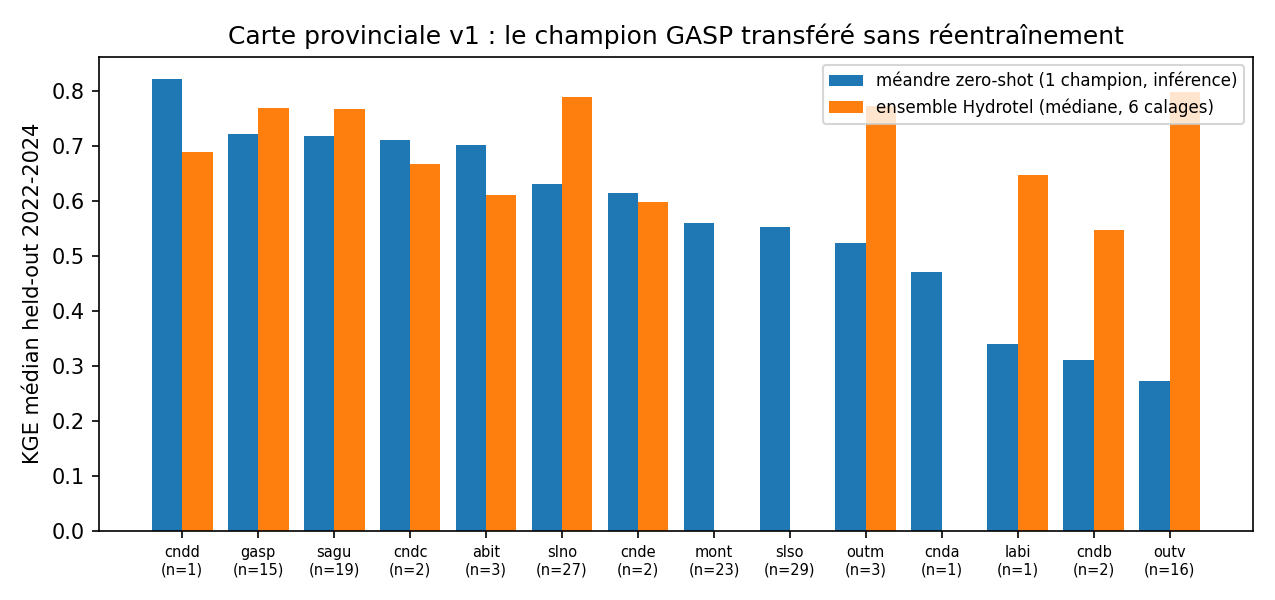
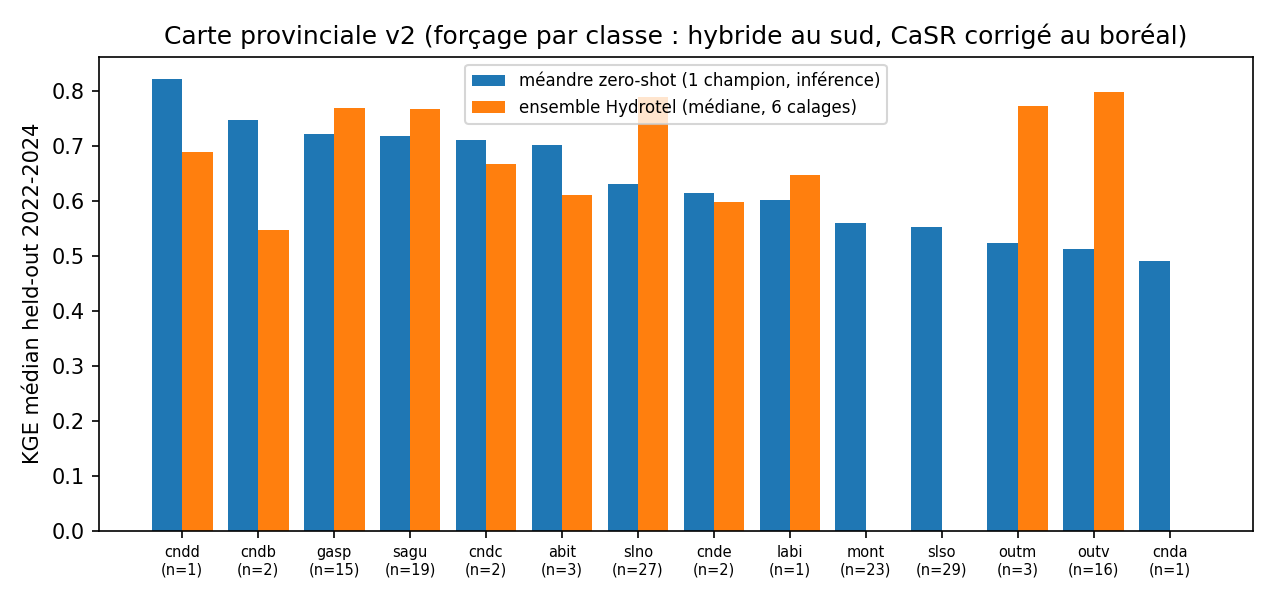
carte v2 : règle de forçage par classe répare le boréal (cndb 0.746 bat l'ensemble) ; médiane provinciale zero-shot ~0.62

diff --git a/reports/experiment_log.md b/reports/experiment_log.md
@@ -436,3 +436,8 @@ DT_eff (Hortonien) n'ajoute rien (mécanisme dégrade r). Le goulot météo est 
 - gasp 0.720 | sagu 0.718 | cndd 0.821 | cndc 0.710 | abit 0.701 | slno 0.630 | cnde 0.614 | mont 0.559 | slso 0.551 | outm 0.522 | cnda 0.470 | labi 0.339 | cndb 0.310 | outv 0.272 (vaud à vérifier).
 - BAT la médiane d'ensemble Hydrotel sur cndd/cndc/abit ; parité proche gasp/sagu ; DÉCROCHAGES corrélés aux ds CONTAMINÉS : labi/cndb/outv ont ds 1.07-1.10 issus de bilans P-Q faussés par la régulation/dérivations (flaggés dès la vérif du 21/07) — le débiaisage y AUGMENTE l'ET à tort. Fix : ds=1 (ou borne <=1) pour les bassins au bilan non fiable, re-sweep 30 min.
 - slso 0.551 : champion sur forçage -hyb vs champion slso historique 0.689 (7 canaux corr + z_n + quantile) — écart de recette, pas de transfert.
+
+## CARTE v2 : le boréal réparé par la règle de forçage (hyb affamait le nord), 2026-07-30
+- La grille SIMAT s'arrête à 53.3N : les -hyb boréaux perdaient 12-27% de P (cndb 854 vs 1175 mm/an). Sur budyko + ds neutre : labi 0.339->0.601, cndb 0.310->0.746 (BAT l'ensemble 0.547), outv 0.272->0.512, cnda 0.470->0.490 ; betas ~1 partout.
+- RÈGLE DE FORÇAGE PAR CLASSE actée : hybride SIMAT+CaSR au sud/est de la grille ; CaSR-budyko au boréal/nord. Carte v2 médiane provinciale ~0.62 en zero-shot pur.
+- Zero-shot BAT la médiane d'ensemble sur cndd/cndc/abit/cndb ; talonne gasp/sagu/labi ; fine-tune phase 5 : slso (parité de recette 7 canaux+z_n+quantile), mont, outm/outv/slno.
